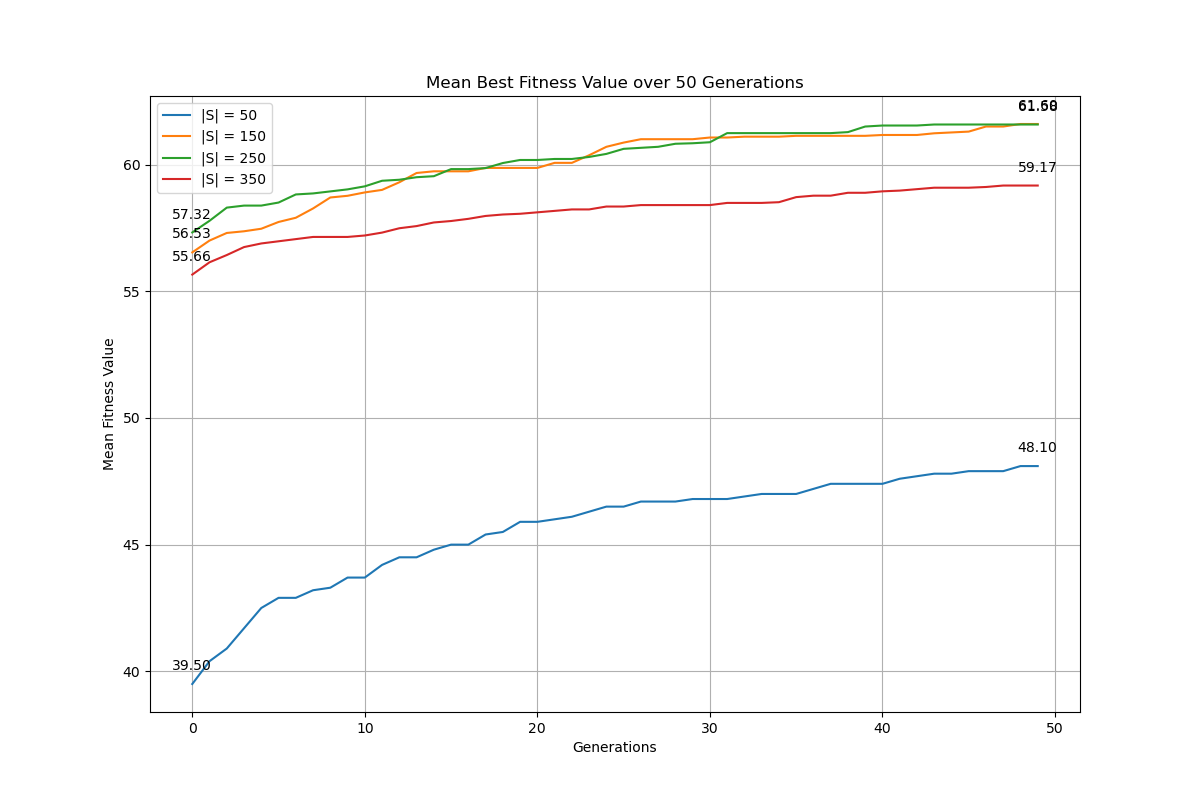
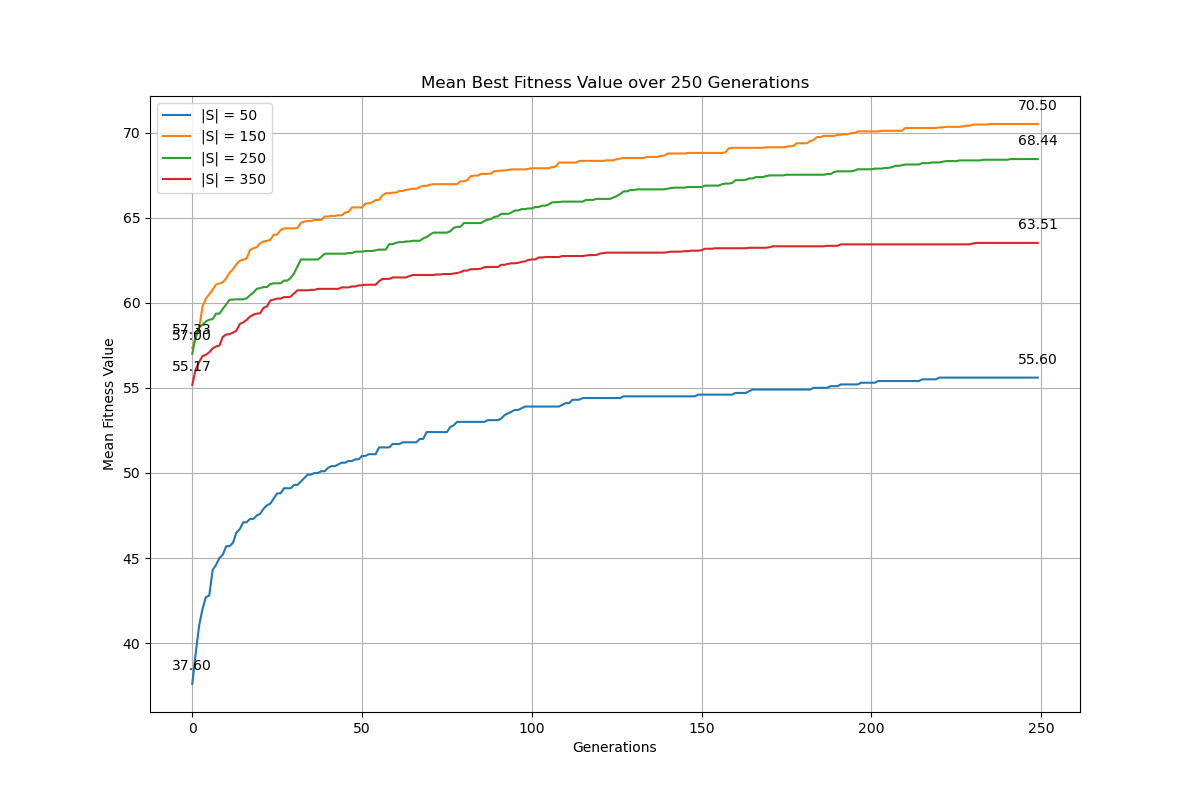
improved fitness and number of subset used

diff --git a/ROLLXYZ_FIRSTNAME.py b/ROLLXYZ_FIRSTNAME.py
@@ -21,7 +21,7 @@ def fitness_function(individual, subsets):
         if bit:
             covered.update(subsets[i])
             count += 1
-    coverage = len(covered) / 100  # Assuming universe size is always 100
+    coverage = len(covered) / 100 
     return (coverage - (count / len(subsets))) * 100
 
 def select_parents(population, fitnesses):
@@ -34,14 +34,15 @@ def select_parents(population, fitnesses):
 
 def crossover(parent1, parent2):
     point = random.randint(1, len(parent1) - 1)
-    child = parent1[:point] + parent2[point:]
-    return child
+    child1 = parent1[:point] + parent2[point:]
+    child2 = parent2[:point] + parent1[point:]
+    return child1, child2
 
 def mutate(individual):
     i = random.randint(0, len(individual) - 1)
     individual[i] = 1 - individual[i]
 
-def genetic_algorithm(subsets, population_size=100, generations=50, mutation_rate=0.01, start_time=None):
+def genetic_algorithm(subsets, population_size=100, generations=50, start_time=None):
     population = initialize_population(population_size, subsets)
     best_fitness_over_time = []
     mean_subset_size_over_time = []
@@ -49,13 +50,17 @@ def genetic_algorithm(subsets, population_size=100, generations=50, mutation_rat
     best_solution = None
     best_fitness = float('-inf')
 
+    initial_mutation_rate = 0.3
+    final_mutation_rate = 0.01
+
     for generation in range(generations):
         if time.time() - start_time > MAX_TIME:
             print("Time limit reached.")
             break
 
-        fitnesses = [fitness_function(ind, subsets) for ind in population]
+        current_mutation_rate = initial_mutation_rate - (initial_mutation_rate - final_mutation_rate) * (generation / generations)
         
+        fitnesses = [fitness_function(ind, subsets) for ind in population]
         
         for i, fitness in enumerate(fitnesses):
             if fitness > best_fitness:
@@ -65,25 +70,27 @@ def genetic_algorithm(subsets, population_size=100, generations=50, mutation_rat
         best_fitness_over_time.append(best_fitness)
         mean_subset_size_over_time.append(sum(best_solution))
         
-        
         population2 = []
-        for _ in range(population_size):
+        for _ in range(population_size ):
             parent1, parent2 = select_parents(population, fitnesses)
-            child = crossover(parent1, parent2)
-            if random.random() < mutation_rate:
-                mutate(child)
-            population2.append(child)
+            child1, child2 = crossover(parent1, parent2)
+            if random.random() < current_mutation_rate:
+                mutate(child1)
+            if random.random() < current_mutation_rate:
+                mutate(child2)
+            population2.append(child1)
+            population2.append(child2)
         
         population = population2
 
-    return best_solution, best_fitness_over_time,  mean_subset_size_over_time
+    return best_solution, best_fitness_over_time, mean_subset_size_over_time
 
 
 
 
         
 
-def run_experiment(start_time):
+def run_experiment(start_time, generations=50):
     subset_sizes = [50, 150, 250, 350]
     results = {}
 
@@ -95,16 +102,14 @@ def run_experiment(start_time):
 
         for _ in range(10):  
             subsets = scp.Create(usize=100, totalSets=size)
-            _, best_fitness_over_time, mean_subset_size_over_time = genetic_algorithm(subsets, population_size=50, generations=50, start_time=start_time)
+            _, best_fitness_over_time, mean_subset_size_over_time = genetic_algorithm(subsets, population_size=50, generations=generations, start_time=start_time)
 
             fitness_over_time_all_runs.append(best_fitness_over_time)
             mean_subset_size_over_time_all_runs.append(mean_subset_size_over_time)
 
-       
         mean_best_fitness_over_time = np.mean(fitness_over_time_all_runs, axis=0)
         std_best_fitness = np.std([run[-1] for run in fitness_over_time_all_runs])
 
-        
         results[size] = {
             'mean_best_fitness': np.mean([run[-1] for run in fitness_over_time_all_runs]),
             'std_best_fitness': std_best_fitness,
@@ -118,20 +123,19 @@ def run_experiment(start_time):
 
 
 
-def plot_experiment_results(results, output_dir='plots'):
+def plot_experiment_results(results, generations=50, output_dir='plots'):
     if not os.path.exists(output_dir):
         os.makedirs(output_dir)
 
     sizes = sorted(results.keys())
     
-    # Plot mean and standard deviation of best fitness value after 50 generations
+    # Plot mean and standard deviation of best fitness value after specified generations
     means = [results[size]['mean_best_fitness'] for size in sizes]
     std_devs = [results[size]['std_best_fitness'] for size in sizes]
 
     plt.figure(figsize=(10, 6))
     plt.errorbar(sizes, means, yerr=std_devs, fmt='-o', capsize=5, capthick=2, label='Mean Best Fitness ± Std. Dev.')
 
-    
     for i, size in enumerate(sizes):
         plt.annotate(f'{means[i]:.2f} ± {std_devs[i]:.2f}', 
                      (size, means[i]), 
@@ -139,7 +143,7 @@ def plot_experiment_results(results, output_dir='plots'):
                      xytext=(0,10), 
                      ha='center')
 
-    plt.title('Mean and Std. Dev. of Best Fitness after 50 Generations')
+    plt.title(f'Mean and Std. Dev. of Best Fitness after {generations} Generations')
     plt.xlabel('Number of Subsets')
     plt.ylabel('Fitness Value')
     plt.xticks(sizes)
@@ -147,8 +151,7 @@ def plot_experiment_results(results, output_dir='plots'):
     plt.legend()
     plt.savefig(os.path.join(output_dir, 'mean_std_best_fitness.png'))
     
-
-    # Plot how the mean best fitness value changes over 50 generations for different subset sizes
+    # Plot how the mean best fitness value changes over the generations for different subset sizes
     plt.figure(figsize=(12, 8))
     for size in sizes:
         mean_fitness = results[size]['mean_fitness_over_time']
@@ -156,17 +159,16 @@ def plot_experiment_results(results, output_dir='plots'):
         
         # Annotate start and end points
         plt.annotate(f'{mean_fitness[0]:.2f}', (0, mean_fitness[0]), textcoords="offset points", xytext=(0,10), ha='center')
-        plt.annotate(f'{mean_fitness[-1]:.2f}', (len(mean_fitness) - 1, mean_fitness[-1]), textcoords="offset points", xytext=(0,10), ha='center')
+        plt.annotate(f'{mean_fitness[-1]:.2f}', (generations - 1, mean_fitness[-1]), textcoords="offset points", xytext=(0,10), ha='center')
 
-    plt.title('Mean Best Fitness Value over 50 Generations')
+    plt.title(f'Mean Best Fitness Value over {generations} Generations')
     plt.xlabel('Generations')
     plt.ylabel('Mean Fitness Value')
     plt.grid(True)
     plt.legend()
     plt.savefig(os.path.join(output_dir, 'mean_fitness_over_time.png'))
     
-
-    # Plot how the mean subset size changes over 50 generations for different subset sizes
+    # Plot how the mean subset size changes over the generations for different subset sizes
     plt.figure(figsize=(12, 8))
     for size in sizes:
         mean_subset_size = results[size]['mean_subset_size_over_time']
@@ -174,18 +176,14 @@ def plot_experiment_results(results, output_dir='plots'):
         
         # Annotate start and end points
         plt.annotate(f'{mean_subset_size[0]:.2f}', (0, mean_subset_size[0]), textcoords="offset points", xytext=(0,10), ha='center')
-        plt.annotate(f'{mean_subset_size[-1]:.2f}', (len(mean_subset_size) - 1, mean_subset_size[-1]), textcoords="offset points", xytext=(0,10), ha='center')
+        plt.annotate(f'{mean_subset_size[-1]:.2f}', (generations - 1, mean_subset_size[-1]), textcoords="offset points", xytext=(0,10), ha='center')
 
-    plt.title('Mean Subset Size for Highest Fitness over 50 Generations')
+    plt.title(f'Mean Subset Size for Highest Fitness over {generations} Generations')
     plt.xlabel('Generations')
     plt.ylabel('Mean Subset Size')
     plt.grid(True)
     plt.legend()
     plt.savefig(os.path.join(output_dir, 'mean_subset_size_over_time.png'))
-   
-    
-
-
     
 
 
@@ -236,8 +234,9 @@ def main():
         plt.show()
 
     elif option == "2":
-        results = run_experiment(start_time=start_time)
-        plot_experiment_results(results)
+        generations = 250
+        results = run_experiment(start_time=start_time, generations=generations)
+        plot_experiment_results(results, generations=generations)
     
     else:
         print("Invalid option. Please enter 1 or 2.")
